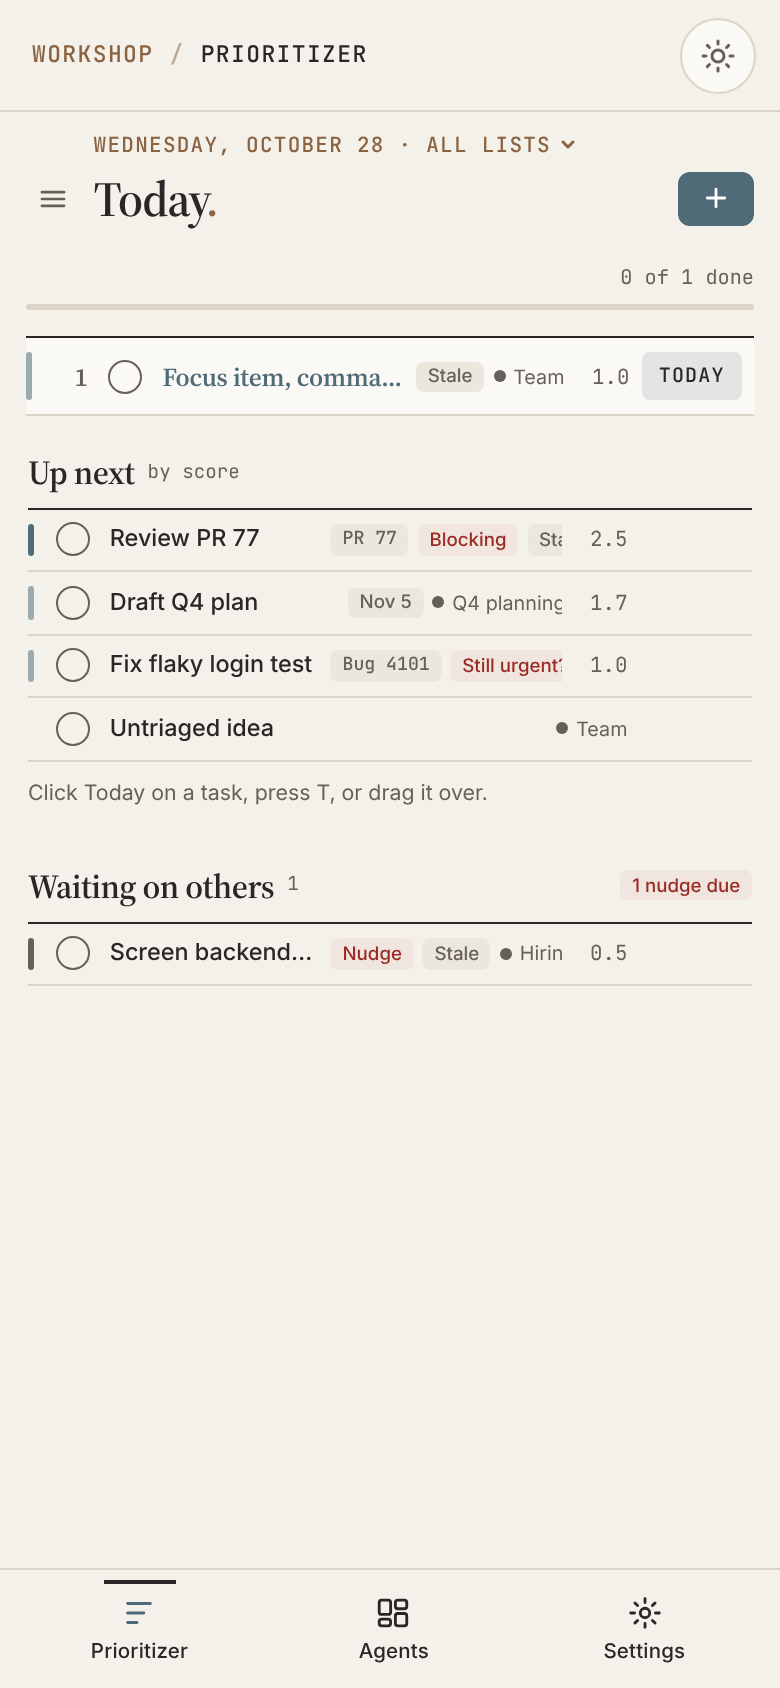
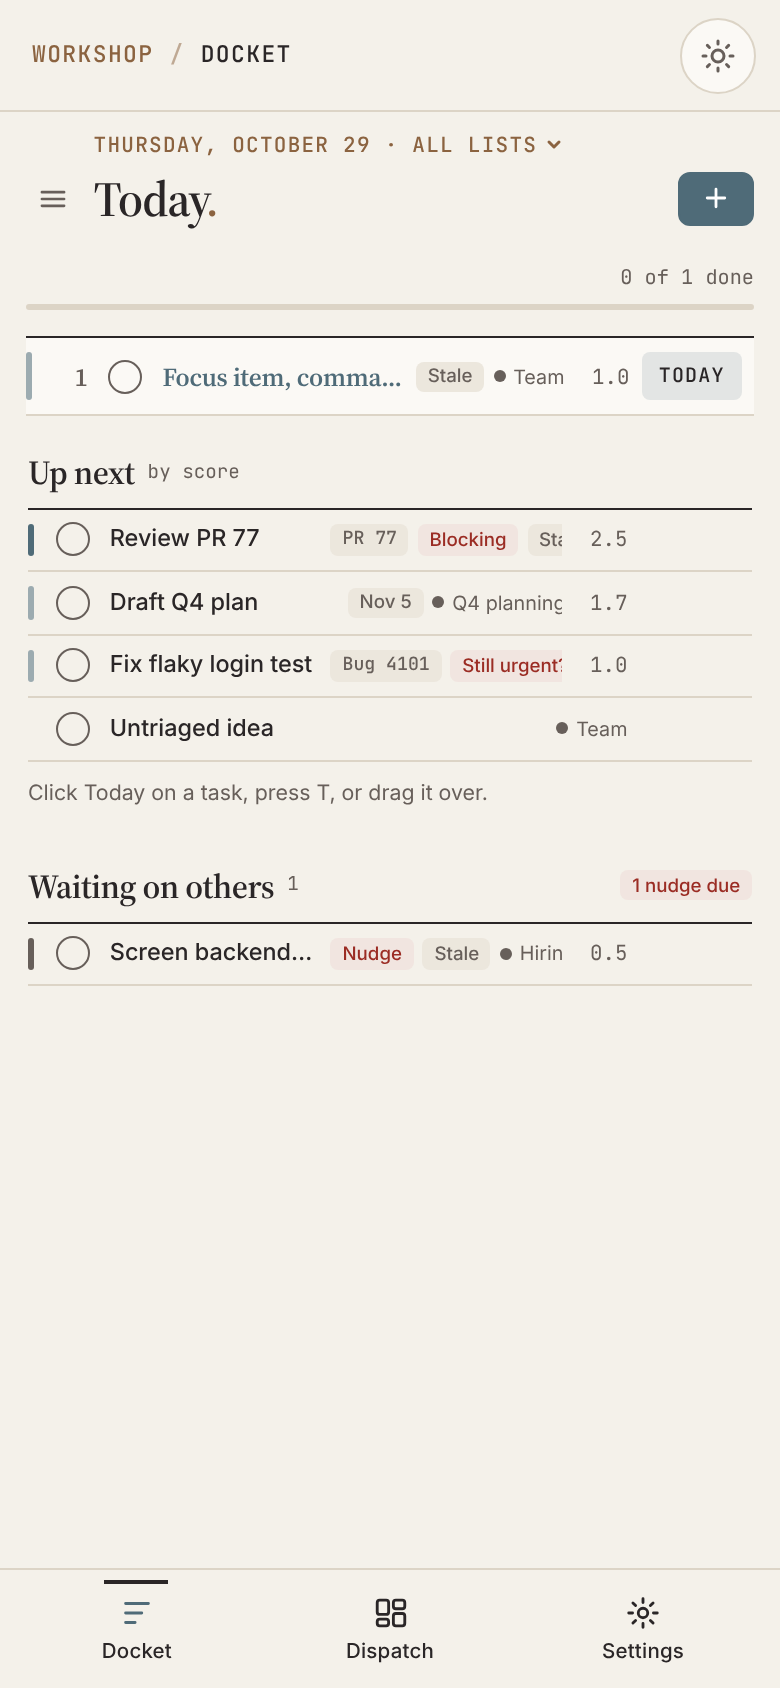
Rename to Docket and Dispatch; standalone top bar (#34)
* Rename Prioritizer to Docket and Agents to Dispatch; standalone top bar

Display names only: app ids, folders and URLs (#/prioritizer, /apps/agents/)
stay the same, so saved data, deep links and shortcuts keep working.

On their own pages, Docket and Dispatch now get the same top bar as the other
tools (shared/standalone-bar.js): breadcrumbs back to LifeKit and Office on
alexisdavidson.org (Workshop elsewhere) and the round light/dark toggle, in
place of the old theme menus. Service worker 5.1.0, install screenshots and
tests updated.

Claude-Session: https://claude.ai/code/session_01N8Fu1tJxd8bBrkKTVMDXcq

* Call eng-agents Tandem wherever people see it; Dispatch is its front end

The repo name and config paths stay eng-agents.

Claude-Session: https://claude.ai/code/session_01N8Fu1tJxd8bBrkKTVMDXcq

---------

diff --git a/apps/prioritizer/js/eng.js b/apps/prioritizer/js/eng.js
@@ -76,13 +76,13 @@ function engLabel(i){
 }
 function engTip(i){
   const n = i.next || {};
-  if (i.paused) return 'Paused in eng-agents. Open Agents to resume.';
-  if (i.waiting) return 'The agent is waiting for an answer. Open Agents.';
-  if (engAuto(i, 'waiting')) return `Autopilot needs you: ${i.autopilot.message || 'see Agents'}`;
+  if (i.paused) return 'Paused in Tandem. Open Dispatch to resume.';
+  if (i.waiting) return 'The agent is waiting for an answer. Open Dispatch.';
+  if (engAuto(i, 'waiting')) return `Autopilot needs you: ${i.autopilot.message || 'see Dispatch'}`;
   if (engAuto(i, 'running')) return `Autopilot is building it. Now: ${engStep(n) || 'working'}`;
-  if (n.needsYou) return `Needs you: ${engStep(n) || 'see Agents'}`;
+  if (n.needsYou) return `Needs you: ${engStep(n) || 'see Dispatch'}`;
   if (i.agent === 'busy') return 'The agent is working on it';
-  return engStep(n) ? `Next: ${engStep(n)}` : 'Open in Agents';
+  return engStep(n) ? `Next: ${engStep(n)}` : 'Open in Dispatch';
 }
 function engChip(adoId){
   const i = engItem(adoId);
@@ -90,7 +90,7 @@ function engChip(adoId){
     const st = eng.status === 'ok' && eng.starting.get(String(adoId));
     if (!st) return '';
     return st.waiting || st.error || st.agent === 'idle'
-      ? `<button class="chip eng gate" data-act="eng" data-ado="${esc(adoId)}" data-tip="${esc(st.error || (st.waiting ? '/start is asking you something. Open Agents.' : 'Finishing /start'))}">Starting</button>`
+      ? `<button class="chip eng gate" data-act="eng" data-ado="${esc(adoId)}" data-tip="${esc(st.error || (st.waiting ? '/start is asking you something. Open Dispatch.' : 'Finishing /start'))}">Starting</button>`
       : `<button class="chip eng" data-act="eng" data-ado="${esc(adoId)}" data-tip="Running /start in opencode"><i class="live"></i>Starting</button>`;
   }
   const gate = i.paused || i.waiting || engAuto(i, 'waiting') || (i.next && i.next.needsYou && !engAuto(i, 'running')) || i.blocked;
@@ -99,21 +99,21 @@ function engChip(adoId){
 }
 function engDrawer(t){
   if (!engOn()) return '';
-  if (eng.status !== 'ok') return `<div class="deng"><span>The opencode connector is not ready${eng.error ? `: ${esc(eng.error)}` : '.'}</span><span class="grow"></span><button class="lnk" data-d="eng-open">Open Agents</button></div>`;
+  if (eng.status !== 'ok') return `<div class="deng"><span>The opencode connector is not ready${eng.error ? `: ${esc(eng.error)}` : '.'}</span><span class="grow"></span><button class="lnk" data-d="eng-open">Open Dispatch</button></div>`;
   const i = engItem(t.ado.id), n = i && i.next || {};
   if (i){
     const step = engStep(n);
     const what = engAuto(i, 'waiting') ? ` · <b>Autopilot needs you</b>${i.autopilot.message ? `: ${esc(i.autopilot.message)}` : ''}`
       : engAuto(i, 'running') ? ` · autopilot is on it${step ? `: ${esc(step)}` : ''}`
       : step ? ` · next: ${esc(step)}` : '';
-    return `<div class="deng"><span>eng-agents <b>${esc(engLabel(i))}</b>${what}</span><span class="grow"></span><button class="btn" data-d="eng-open">Open in Agents</button></div>`;
+    return `<div class="deng"><span>Tandem <b>${esc(engLabel(i))}</b>${what}</span><span class="grow"></span><button class="btn" data-d="eng-open">Open in Dispatch</button></div>`;
   }
   const st = eng.starting.get(String(t.ado.id));
   if (st) return `<div class="deng"><span><b>Starting</b> in opencode${st.error ? `: ${esc(st.error)}` : '...'}</span><span class="grow"></span><button class="lnk" data-d="eng-open">Watch it</button></div>`;
   if (t.done) return '';
   const bug = /bug/i.test(t.ado.type || '');
   const oc = eng.data && eng.data.opencode && eng.data.opencode.connected;
-  return `<div class="deng col"><span>Not started in eng-agents.</span>${oc
+  return `<div class="deng col"><span>Not started in Tandem.</span>${oc
     ? `<div class="acts"><button class="btn${bug ? '' : ' primary'}" data-d="eng-start" data-lane="feature" title="Runs /start ${esc(t.ado.id)} feature in opencode">Start as feature</button><button class="btn${bug ? ' primary' : ''}" data-d="eng-start" data-lane="bug" title="Runs /start ${esc(t.ado.id)} bug in opencode">Start as bug</button></div>`
     : '<span class="hint">opencode is not connected to Workshop.</span>'}</div>`;
 }

diff --git a/apps/prioritizer/index.html b/apps/prioritizer/index.html
@@ -5,7 +5,7 @@
 <meta name="viewport" content="width=device-width, initial-scale=1">
 <!-- Only this site, plus the local helpers on 127.0.0.1 -->
 <meta http-equiv="Content-Security-Policy" content="default-src 'self'; script-src 'self'; style-src 'self' 'unsafe-inline'; font-src 'self'; img-src 'self' data:; connect-src 'self' http://127.0.0.1:*; frame-src 'self' http://127.0.0.1:*; worker-src 'self'; manifest-src 'self'; object-src 'none'; base-uri 'self'; form-action 'self'">
-<title>Prioritizer</title>
+<title>Docket</title>
 <meta name="theme-color" content="#F4F1EA">
 <!-- sets the theme before first paint so there's no flash -->
 <script src="../../shared/theme.js"></script>
@@ -17,7 +17,7 @@
 <link rel="apple-touch-icon" href="../../icons/app-touch-180.png">
 <meta name="apple-mobile-web-app-capable" content="yes">
 <meta name="mobile-web-app-capable" content="yes">
-<meta name="apple-mobile-web-app-title" content="Prioritizer">
+<meta name="apple-mobile-web-app-title" content="Docket">
 <link rel="stylesheet" href="../../shared/themes.css">
 <link rel="stylesheet" href="../../shared/ui.css">
 <link rel="stylesheet" href="app.css">
@@ -26,7 +26,7 @@
 <div class="app" id="app">
   <aside class="side" id="side" aria-label="Sidebar">
     <div class="sbrand">
-      <span class="logo" aria-hidden="true"><svg viewBox="0 0 24 24"><rect width="24" height="24" rx="6.5" fill="currentColor"/><g fill="var(--on-accent)"><rect x="5" y="5" width="6.2" height="6.2" rx="1.8"/><path d="M6.6 8.3l1.2 1.1 2-2.2" fill="none" stroke="currentColor" stroke-width="1.1" stroke-linecap="round" stroke-linejoin="round"/><rect x="12.8" y="5" width="6.2" height="6.2" rx="1.8" opacity=".38"/><rect x="5" y="12.8" width="6.2" height="6.2" rx="1.8" opacity=".38"/><rect x="12.8" y="12.8" width="6.2" height="6.2" rx="1.8" opacity=".38"/></g></svg></span><b>Prioritizer</b>
+      <span class="logo" aria-hidden="true"><svg viewBox="0 0 24 24"><rect width="24" height="24" rx="6.5" fill="currentColor"/><g fill="var(--on-accent)"><rect x="5" y="5" width="6.2" height="6.2" rx="1.8"/><path d="M6.6 8.3l1.2 1.1 2-2.2" fill="none" stroke="currentColor" stroke-width="1.1" stroke-linecap="round" stroke-linejoin="round"/><rect x="12.8" y="5" width="6.2" height="6.2" rx="1.8" opacity=".38"/><rect x="5" y="12.8" width="6.2" height="6.2" rx="1.8" opacity=".38"/><rect x="12.8" y="12.8" width="6.2" height="6.2" rx="1.8" opacity=".38"/></g></svg></span><b>Docket</b>
     </div>
     <nav class="snav" id="snav" aria-label="Views"></nav>
     <div class="ssec"><span>Lists</span><button class="ibtn" id="addList" aria-label="New list" data-tip="New list"><svg viewBox="0 0 16 16" fill="none" stroke="currentColor" stroke-width="1.6" stroke-linecap="round"><path d="M8 3v10M3 8h10"/></svg></button></div>
@@ -42,9 +42,6 @@
         <svg viewBox="0 0 20 20" fill="none" stroke="currentColor" stroke-width="1.5" stroke-linecap="round" stroke-linejoin="round"><path d="M16 9.5A6 6 0 0 0 5.2 6.2M4 10.5a6 6 0 0 0 10.8 3.3"/><path d="M16.3 4.8v4.7h-4.6M3.7 15.2v-4.7h4.6"/><path class="mk-x" d="M8.6 8.6l2.8 2.8M11.4 8.6l-2.8 2.8"/></svg>
       </button>
       <span class="grow"></span>
-      <button class="ibtn" id="themeBtn" aria-label="Theme" data-tip="Theme">
-        <svg viewBox="0 0 20 20" fill="none" stroke="currentColor" stroke-width="1.5"><circle cx="10" cy="10" r="6.5"/><path d="M10 3.5a6.5 6.5 0 0 0 0 13z" fill="currentColor"/></svg>
-      </button>
       <input type="file" id="importFile" accept=".xlsx,.xls,.csv,.json" hidden>
     </div>
   </aside>

diff --git a/shared/standalone-bar.js b/shared/standalone-bar.js
@@ -1,0 +1,49 @@
+/* The top bar for an app opened on its own page (not inside the Workshop shell), so it looks like every
+   other tool on tools.alexisdavidson.org: breadcrumbs on the left and the round light/dark toggle in the top
+   right corner. On alexisdavidson.org the crumbs lead back up to LifeKit and its Office section; anywhere else
+   (the agent on 127.0.0.1, another company's domain) they start at Workshop.
+
+   import { mountBar } from '../../shared/standalone-bar.js';
+   mountBar('Prioritizer');   // adds <header class="ws-bar"> as the first child of <body> and body.standalone
+
+   Needs shared/theme.js (for the toggle) and shared/themes.css (colors). Styles are injected here because not
+   every app loads shared/ui.css. A page lays itself out around the bar with body.standalone. */
+
+const LIFEKIT = /(^|\.)alexisdavidson\.org$/.test(location.hostname);
+
+const CSS = `
+.ws-bar{display:flex;align-items:center;justify-content:space-between;gap:1rem;flex:none;min-height:60px;padding:0 20px 0 28px;box-sizing:border-box;background:var(--bg);border-bottom:1px solid var(--line)}
+.ws-crumbs{display:flex;align-items:center;flex-wrap:wrap;min-width:0;font:500 11.5px/1.4 var(--mono);letter-spacing:.06em;text-transform:uppercase;color:var(--eyebrow)}
+.ws-crumbs a{color:inherit;text-decoration:none;padding:4px 0;border-radius:2px}
+.ws-crumbs a:hover{color:var(--ink)}
+.ws-crumbs span[aria-hidden]{margin:0 8px;opacity:.5}
+.ws-crumbs .here{color:var(--ink)}
+.ws-bar .theme-toggle{position:static;width:38px;height:38px;display:grid;place-items:center;padding:0;margin:0;flex:none;cursor:pointer;
+  border:1px solid var(--line);border-radius:50%;background:var(--surface);color:var(--muted);transition:color .2s,border-color .2s,transform .2s;-webkit-tap-highlight-color:transparent}
+.ws-bar .theme-toggle:hover{color:var(--ink);border-color:color-mix(in srgb,var(--ink) 30%,var(--line))}
+.ws-bar .theme-toggle:active{transform:scale(.94)}
+.ws-bar .theme-toggle:focus-visible{outline:2px solid var(--accent);outline-offset:3px}
+.ws-bar .theme-toggle svg{width:18px;height:18px;display:block;transition:transform .5s cubic-bezier(.34,1.56,.64,1)}
+.ws-bar .theme-toggle:hover svg{transform:rotate(-20deg)}
+@media (max-width:720px){.ws-bar{min-height:56px;padding:env(safe-area-inset-top) 12px 0 16px}}
+@media (prefers-reduced-motion:reduce){.ws-bar .theme-toggle,.ws-bar .theme-toggle svg{transition:none}}`;
+
+const esc = s => String(s).replace(/[&<>"']/g, c => ({ '&': '&amp;', '<': '&lt;', '>': '&gt;', '"': '&quot;', "'": '&#39;' })[c]);
+
+export function mountBar(name) {
+  if (document.querySelector('.ws-bar')) return;
+  const style = document.createElement('style');
+  style.textContent = CSS;
+  document.head.appendChild(style);
+  const up = LIFEKIT
+    ? [['LifeKit', 'https://tools.alexisdavidson.org/'], ['Office', 'https://tools.alexisdavidson.org/office/']]
+    : [['Workshop', '../../']];
+  const bar = document.createElement('header');
+  bar.className = 'ws-bar';
+  bar.innerHTML = `<nav class="ws-crumbs" aria-label="Breadcrumb">`
+    + up.map(([t, href]) => `<a href="${href}">${esc(t)}</a><span aria-hidden="true">/</span>`).join('')
+    + `<span class="here" aria-current="page">${esc(name)}</span></nav>`
+    + (window.WorkshopTheme ? WorkshopTheme.toggleHtml() : '');
+  document.body.prepend(bar);
+  document.body.classList.add('standalone');
+}

diff --git a/apps/agents/js/view.js b/apps/agents/js/view.js
@@ -642,7 +642,7 @@ function menuHtml() {
 // Inside the shell the shell shows the name and owns the theme. Opened on its own, the page has both.
 function brandHtml() {
   if (S.embedded) return '';
-  return `<div class="brand"><span class="logo" aria-hidden="true"><i></i></span><h1>Agents</h1>${S.version ? `<span class="ver">v${h(S.version)}</span>` : ''}</div>`;
+  return `<div class="brand"><span class="logo" aria-hidden="true"><i></i></span><h1>Dispatch</h1>${S.version ? `<span class="ver">v${h(S.version)}</span>` : ''}</div>`;
 }
 export function pill() {
   const o = (L() && L().opencode) || {};
@@ -655,10 +655,9 @@ function headerHtml() {
   const o = (L() && L().opencode) || {};
   const st = pill();
   const tip = S.conn === 'on' && S.D ? 'Updated ' + timeOf(S.D.generatedMs) + '. opencode ' + (o.connected ? (o.version || '') + ' at ' + (o.url || '') : 'not connected') : '';
-  const themeBtn = S.embedded ? '' : `<button type="button" class="ibtn" data-theme-menu="1" aria-label="Theme" title="Theme">${ICON.theme}</button>`;
   return `<header class="top">${brandHtml()}<span class="ws">${h(S.D && S.D.workspace)}</span><span class="fresh">` +
     `<span class="pill ${st[0]}" title="${h(tip)}"><span class="led"></span>${h(st[1])}</span>` +
-    `<button type="button" class="ibtn" data-more-menu="1" aria-label="More" title="More" aria-haspopup="menu">${ICON.more}</button>${themeBtn}</span></header>`;
+    `<button type="button" class="ibtn" data-more-menu="1" aria-label="More" title="More" aria-haspopup="menu">${ICON.more}</button></span></header>`;
 }
 function bannersHtml() {
   let out = '';
@@ -674,7 +673,7 @@ export function setupHtml() {
   const c = S.connector;
   let title, body, act = '';
   if (S.mode === 'browser') {
-    title = 'Agents needs Workshop running on this computer';
+    title = 'Dispatch needs Workshop running on this computer';
     body = '<p>The agents and your <code>.work</code> folder are on your computer. Start Workshop there (<code>node workshop.mjs start</code>) and open it at <code>127.0.0.1</code>.</p>';
   } else if (!c) {
     title = 'Connecting to Workshop';
@@ -684,7 +683,7 @@ export function setupHtml() {
     body = '<p>This copy of Workshop has no <code>connectors/opencode</code> folder.</p>';
   } else if (c.state === 'disabled') {
     title = 'Turn on the opencode connector';
-    body = '<p>Agents shows your eng-agents work items and the opencode agents working on them. Turn on the opencode connector in Settings and set your workspace folder: the folder that holds <code>.work</code> and your repos.</p>';
+    body = '<p>Dispatch is the front end for Tandem: your work items and the opencode agents Tandem runs on them. Turn on the opencode connector in Settings and set your workspace folder: the folder that holds <code>.work</code> and your repos.</p>';
     act = 'settings';
   } else if (c.state === 'starting') {
     title = 'Starting the opencode connector';

diff --git a/apps/home/js/view.js b/apps/home/js/view.js
@@ -89,12 +89,12 @@ export function render(v) {
   </header>`;
 
   if (!v.board) {
-    return head + `<section class="card note"><h2>Prioritizer</h2><p>${esc(v.boardNote || 'Loading your board.')}</p></section>` + agentsCard(v.agents);
+    return head + `<section class="card note"><h2>Docket</h2><p>${esc(v.boardNote || 'Loading your board.')}</p></section>` + agentsCard(v.agents);
   }
   const b = v.board;
   if (!b.total) {
-    return head + `<section class="card note"><h2>No tasks yet</h2><p>Add a few in Prioritizer and they show up here.</p>
-      <p><button class="btn primary" data-open="prioritizer">Open Prioritizer</button></p></section>` + agentsCard(v.agents);
+    return head + `<section class="card note"><h2>No tasks yet</h2><p>Add a few in Docket and they show up here.</p>
+      <p><button class="btn primary" data-open="prioritizer">Open Docket</button></p></section>` + agentsCard(v.agents);
   }
 
   const tiles = `<section class="tiles" aria-label="Today at a glance">
@@ -116,7 +116,7 @@ export function render(v) {
     <div class="ch"><h2>People</h2></div>
     ${b.team.length ? `<ul class="team">${b.team.slice(0, 8).map(m => `<li><span class="av" aria-hidden="true">${esc(m.name.trim()[0].toUpperCase())}</span><span class="nm">${esc(m.name)}</span>
       <span class="ct">${m.open ? `${m.open} open` : 'Nothing open'}${m.waiting ? ` · ${m.waiting} waiting` : ''}</span></li>`).join('')}</ul>`
-      : `<p class="soft">Add people in Prioritizer to see who has what.</p>`}
+      : `<p class="soft">Add people in Docket to see who has what.</p>`}
   </section>`;
 
   return head + tiles + `<div class="cols">${next}<div class="stack">${team}${agentsCard(v.agents)}</div></div>`;
@@ -129,10 +129,10 @@ function agentsCard(a) {
     body = `<div class="pair">
       <button class="stat${a.needYou ? ' warn' : ''}" data-open="agents"><span class="n num">${a.needYou}</span><span class="lbl">Need you</span></button>
       <button class="stat" data-open="agents"><span class="n num">${a.working}</span><span class="lbl">Working</span></button></div>`;
-  } else if (a.state === 'browser') body = '<p class="soft">Agents need Workshop running on this computer.</p>';
+  } else if (a.state === 'browser') body = '<p class="soft">Dispatch needs Workshop running on this computer.</p>';
   else if (a.state === 'off') body = `<p class="soft">${esc(a.message || 'The opencode connector is off. Turn it on in Settings.')}</p>`;
   else body = '<p class="soft">Checking…</p>';
-  return `<section class="card"><div class="ch"><h2>Agents</h2><button class="lnk" data-open="agents">Open</button></div>${body}</section>`;
+  return `<section class="card"><div class="ch"><h2>Dispatch</h2><button class="lnk" data-open="agents">Open</button></div>${body}</section>`;
 }
 
 export function profileForm(p) {

diff --git a/apps/prioritizer/app.css b/apps/prioritizer/app.css
@@ -24,9 +24,12 @@ main{flex:1;min-height:0;overflow:auto;padding:.25rem var(--gutter) 2.5rem}
 .logo{width:22px;height:22px;flex:none;color:var(--accent)}
 .logo svg{width:100%;height:100%}
 .sbrand b{font:600 1.15rem/1.2 var(--serif);font-variation-settings:"opsz" 48;letter-spacing:-.015em;white-space:nowrap}
-/* inside Workshop the rail already names the app, so no second logo and title */
-.embedded .sbrand{display:none}
-.embedded .snav{padding-top:.75rem}
+/* inside Workshop the rail already names the app, and on its own page the top bar's crumbs do, so no second logo and title */
+.embedded .sbrand,.standalone .sbrand{display:none}
+.embedded .snav,.standalone .snav{padding-top:.75rem}
+/* on its own page: the top bar (shared/standalone-bar.js) above the app */
+body.standalone{display:flex;flex-direction:column}
+body.standalone>.app{flex:1;min-height:0;height:auto}
 .snav{padding:.2rem .5rem;display:flex;flex-direction:column;gap:1px}
 .sitem{position:relative;display:flex;align-items:center;gap:.6rem;width:100%;min-height:2.1rem;padding:.3rem .55rem;border-radius:var(--r-sm);color:var(--muted);font-weight:500;font-size:.92rem;text-align:left;white-space:nowrap;cursor:pointer;user-select:none;transition:background-color .2s,color .2s}
 .sitem svg{width:17px;height:17px;flex:none}

diff --git a/apps/prioritizer/js/main.js b/apps/prioritizer/js/main.js
@@ -17,11 +17,12 @@ import { openDrawer } from './drawer.js';
 import { showHelp, toast } from './overlays.js';
 import { findTask } from './state.js';
 import { ready, embedded } from './ws.js';
+import { mountBar } from '../../../shared/standalone-bar.js';
 
-// Inside the shell the rail names the app (no second logo), and the shell owns the theme picker, the service worker, Alt+<n> and Ctrl+K; on its own,
-// Prioritizer shows the picker and registers the worker itself.
-if (embedded) { document.body.classList.add('embedded'); const tb = $('#themeBtn'); if (tb) tb.hidden = true; }
-else if (window.WorkshopSw) WorkshopSw.register((msg, label, fn) => toast(msg, label, fn, 30000));
+// Inside the shell the rail names the app (no second logo), and the shell owns the light/dark toggle, the service worker, Alt+<n> and Ctrl+K.
+// On its own page, Prioritizer gets the same top bar as the other tools (crumbs and the toggle) and registers the worker itself.
+if (embedded) document.body.classList.add('embedded');
+else { mountBar('Docket'); if (window.WorkshopSw) WorkshopSw.register((msg, label, fn) => toast(msg, label, fn, 30000)); }
 
 // From the shell, through the SDK: deep links (#/prioritizer/task/<id>), palette commands, ADO status.
 const loaded = boot();

diff --git a/sw.js b/sw.js
@@ -9,13 +9,13 @@
    page calling the agent on 127.0.0.1.
 
    Bump VERSION when shipping a change so open windows get the "New version" toast. */
-const VERSION = '5.0.0';
+const VERSION = '5.1.0';
 const CACHE = 'workshop-' + VERSION;
 const CORE = [
   './', './index.html', './manifest.webmanifest',
   './shell/shell.css', './shell/shell.js',
   './shared/themes.css', './shared/ui.css', './shared/theme.js', './shared/sw-register.js',
-  './shared/workshop-sdk.js',
+  './shared/workshop-sdk.js', './shared/standalone-bar.js',
   './shared/fonts/fonts.css', './shared/fonts/inter-latin-wght-normal.woff2', './shared/fonts/inter-latin-ext-wght-normal.woff2',
   './shared/fonts/jetbrains-mono-latin-wght-normal.woff2', './shared/fonts/jetbrains-mono-latin-ext-wght-normal.woff2',
   './shared/fonts/source-serif-4-latin-opsz-normal.woff2', './shared/fonts/source-serif-4-latin-ext-opsz-normal.woff2',

diff --git a/apps/agents/js/main.js b/apps/agents/js/main.js
@@ -7,6 +7,7 @@
      notifications. The theme comes from shared/theme.js and the SDK, with no messages of our own.
    view.js builds the HTML; this file paints it and handles input. */
 import { connect } from '../../../shared/workshop-sdk.js';
+import { mountBar } from '../../../shared/standalone-bar.js';
 import { S } from './state.js';
 import { render, prompts, itemForFolder, itemKey, isBusy, dayKey } from './view.js';
 
@@ -17,6 +18,8 @@ S.mode = ws.mode;
 S.embedded = ws.embedded;
 S.canNotify = typeof window.Notification === 'function';
 document.documentElement.classList.toggle('embed', ws.embedded);
+// On its own page: the same top bar as the other tools (crumbs and the light/dark toggle).
+if (!ws.embedded) mountBar('Dispatch');
 
 const errText = e => (e && e.message) || 'Something went wrong.';
 const toast = (text, bad) => ws.toast(text, { kind: bad ? 'error' : 'info' });

diff --git a/index.html b/index.html
@@ -6,7 +6,7 @@
 <!-- Only this site, plus the local helpers on 127.0.0.1 -->
 <meta http-equiv="Content-Security-Policy" content="default-src 'self'; script-src 'self'; style-src 'self' 'unsafe-inline'; font-src 'self'; img-src 'self' data:; connect-src 'self' http://127.0.0.1:*; frame-src 'self' http://127.0.0.1:*; worker-src 'self'; manifest-src 'self'; object-src 'none'; base-uri 'self'; form-action 'self'">
 <title>Workshop</title>
-<meta name="description" content="An engineering manager's hub: Prioritizer, Agents (your eng-agents work) and Settings in one place.">
+<meta name="description" content="An engineering manager's hub: Docket for priorities, and Dispatch for the coding agents Tandem runs, in one place.">
 <meta name="theme-color" content="#F4F1EA">
 <!-- sets the theme before first paint so there's no flash -->
 <script src="shared/theme.js"></script>

diff --git a/apps/agents/index.html b/apps/agents/index.html
@@ -5,7 +5,7 @@
 <meta name="viewport" content="width=device-width, initial-scale=1">
 <!-- Only this site, plus Workshop on 127.0.0.1 -->
 <meta http-equiv="Content-Security-Policy" content="default-src 'self'; script-src 'self'; style-src 'self' 'unsafe-inline'; font-src 'self'; img-src 'self' data:; connect-src 'self' http://127.0.0.1:*; frame-src 'self' http://127.0.0.1:*; worker-src 'self'; manifest-src 'self'; object-src 'none'; base-uri 'self'; form-action 'self'">
-<title>Agents</title>
+<title>Dispatch</title>
 <meta name="theme-color" content="#F4F1EA">
 <!-- sets the theme before first paint so there is no flash -->
 <script src="../../shared/theme.js"></script>

diff --git a/apps/home/js/main.js b/apps/home/js/main.js
@@ -23,7 +23,7 @@ async function loadBoard() {
   try {
     const [tasks, lists, people] = await Promise.all(['tasks', 'lists', 'people'].map(c => ws.data.get(c, P)));
     if (tasks && (tasks.schema !== 'prioritizer.tasks' || tasks.version !== TASKS_VERSION)) {
-      v.board = null; v.boardNote = 'Your board was saved by a newer Prioritizer. Update Workshop to see it here.';
+      v.board = null; v.boardNote = 'Your board was saved by a newer Docket. Update Workshop to see it here.';
     } else {
       v.board = summarize({ tasks: tasks ? tasks.items : [], lists: lists ? lists.items : [], people: people ? people.items : [] }, dateKey());
       v.boardNote = '';
